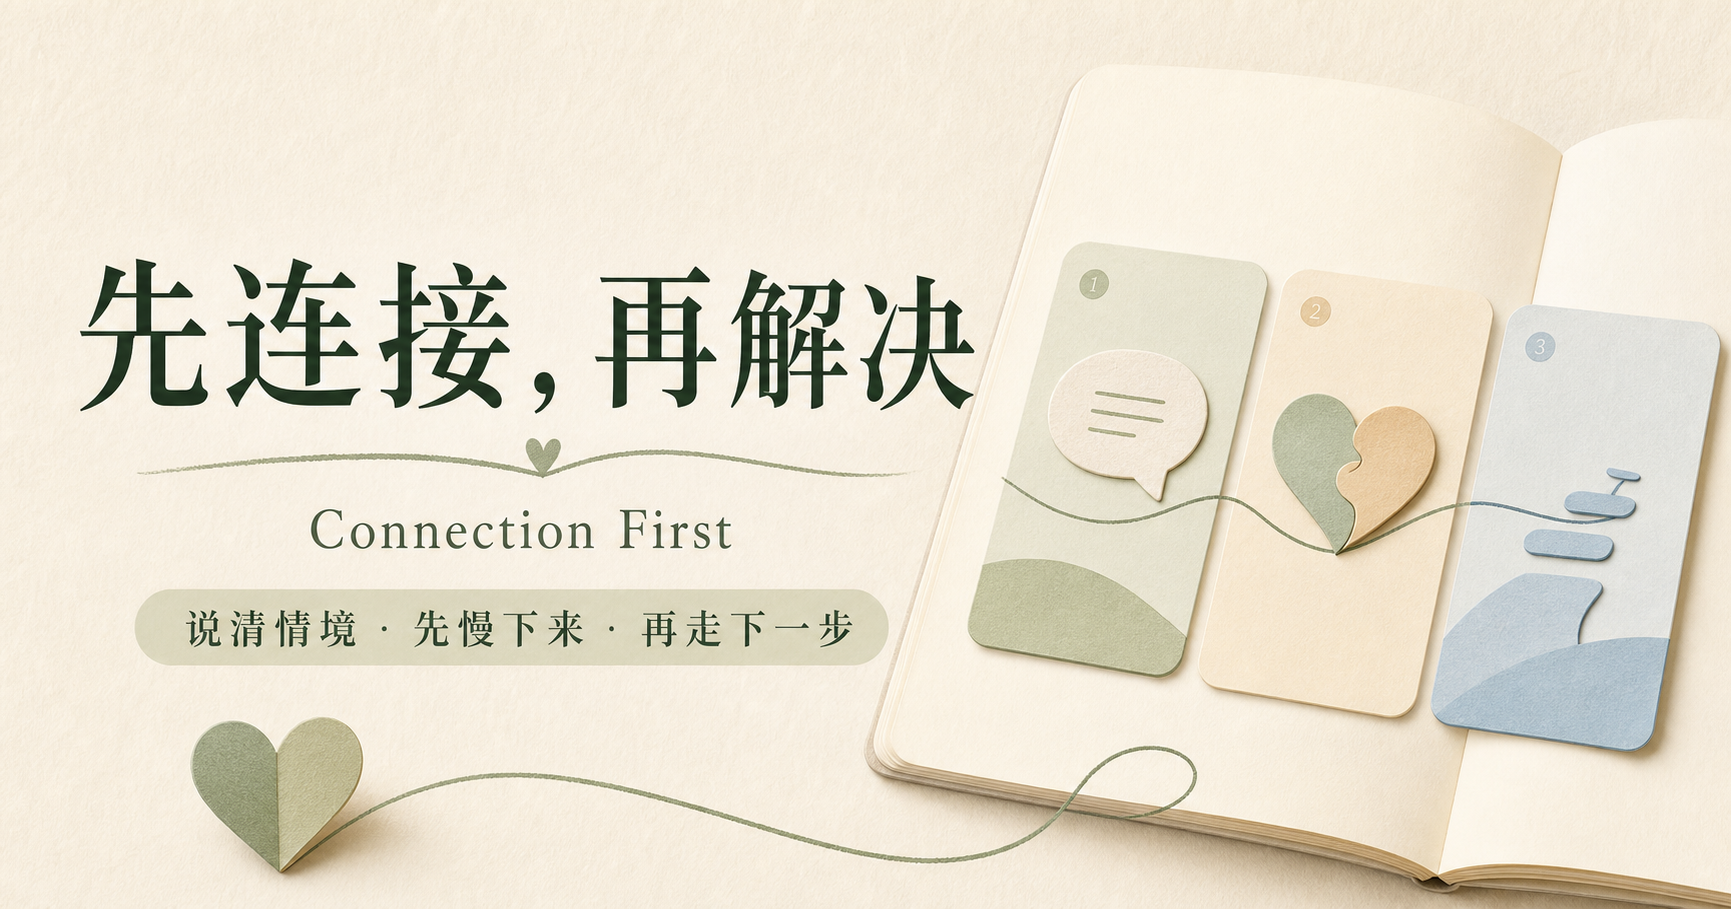
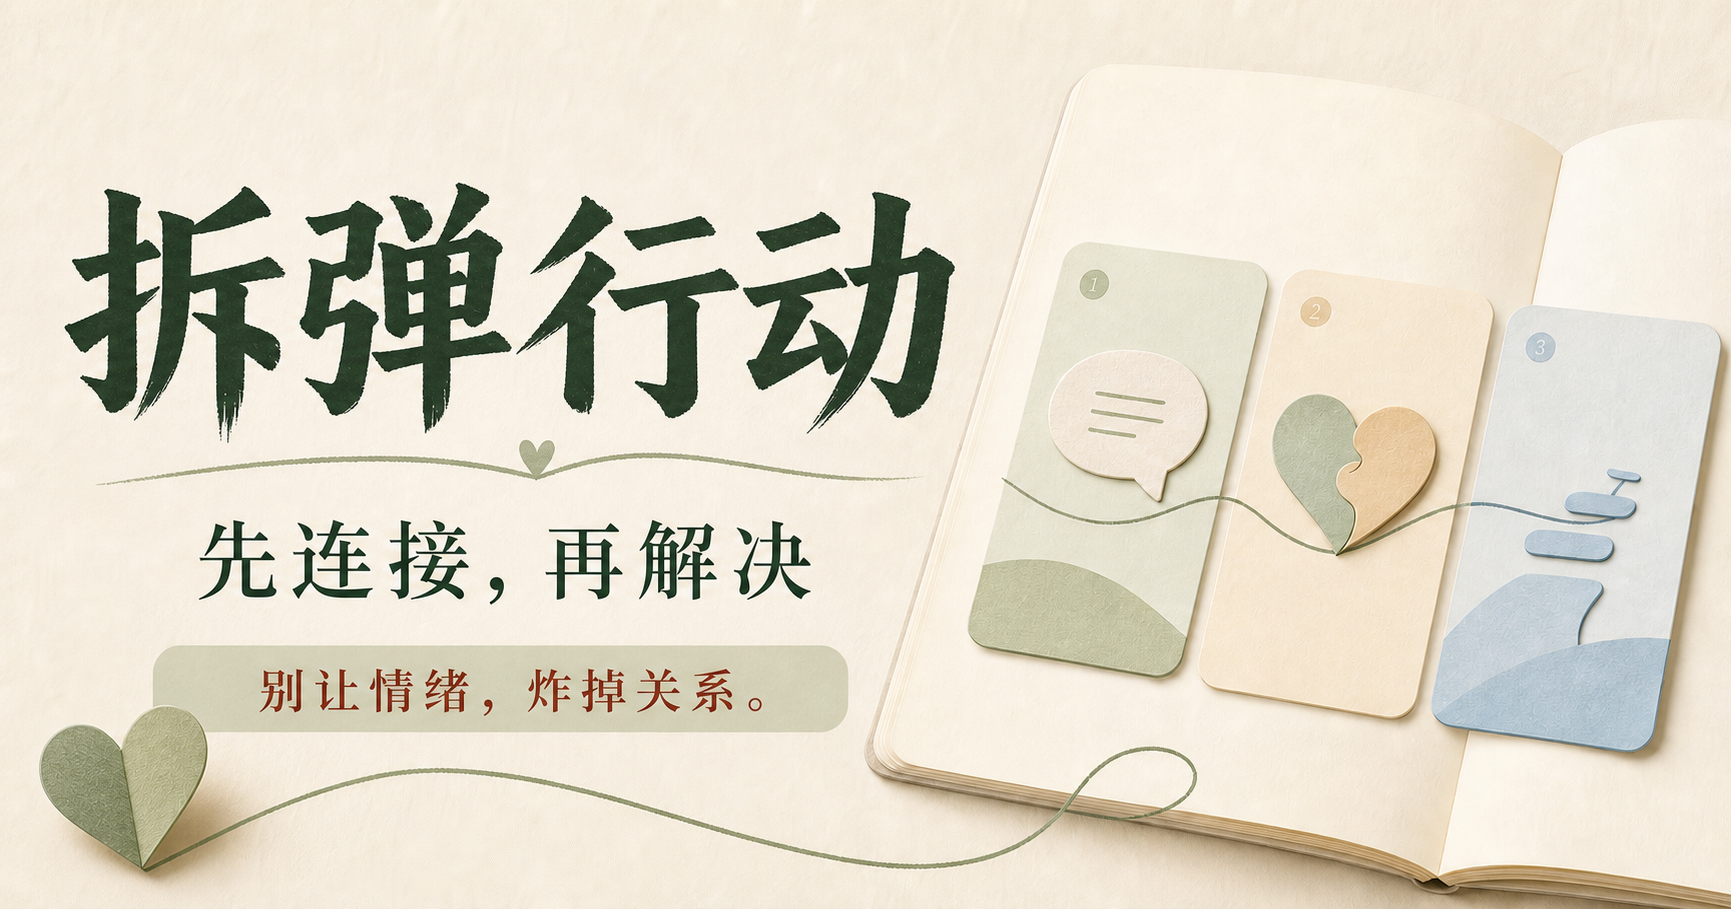
Rename site to 拆弹行动

diff --git a/app/layout.tsx b/app/layout.tsx
@@ -3,11 +3,11 @@ import "./globals.css";
 
 export const metadata: Metadata = {
   metadataBase: new URL("https://connection-first-cn.ruolinlin17.chatgpt.site"),
-  title: { default: "先连接，再解决", template: "%s｜先连接，再解决" },
+  title: { default: "拆弹行动", template: "%s｜拆弹行动" },
   description: "当你不知道如何回应爱的人时，让我们一步一步陪你。",
   icons: { icon: "/favicon.svg", shortcut: "/favicon.svg" },
-  openGraph: { title: "先连接，再解决", description: "说清情境，先慢下来，再走下一步。", type: "website", locale: "zh_CN", images: [{ url: "/og.png", width: 1200, height: 630, alt: "先连接，再解决" }] },
-  twitter: { card: "summary_large_image", title: "先连接，再解决", description: "说清情境，先慢下来，再走下一步。", images: ["/og.png"] },
+  openGraph: { title: "拆弹行动", description: "别让情绪，炸掉关系。", type: "website", locale: "zh_CN", images: [{ url: "/og.png", width: 1200, height: 630, alt: "拆弹行动" }] },
+  twitter: { card: "summary_large_image", title: "拆弹行动", description: "别让情绪，炸掉关系。", images: ["/og.png"] },
 };
 
 export default function RootLayout({ children }: Readonly<{ children: React.ReactNode }>) {

diff --git a/app/relationship-coach.tsx b/app/relationship-coach.tsx
@@ -144,7 +144,7 @@ const dictionary = [
 function Brand({ compact = false }: { compact?: boolean }) {
   return <button className="brand" onClick={() => window.scrollTo({ top: 0, behavior: "smooth" })} aria-label="回到顶部">
     <span className="brand-mark"><HeartHandshake size={19} strokeWidth={1.7}/></span>
-    <span><b>先连接，再解决</b>{!compact && <small>Connection First</small>}</span>
+    <span><b>拆弹行动</b>{!compact && <small>先连接，再解决</small>}</span>
   </button>;
 }
 

diff --git a/app/page.tsx b/app/page.tsx
@@ -2,7 +2,7 @@ import type { Metadata } from "next";
 import { RelationshipCoach } from "./relationship-coach";
 
 export const metadata: Metadata = {
-  title: "先连接，再解决｜Connection First",
+  title: "拆弹行动｜先连接，再解决",
   description: "一本陪你练习情绪识别、温柔回应与关系修复的关系练习册。",
 };
 
